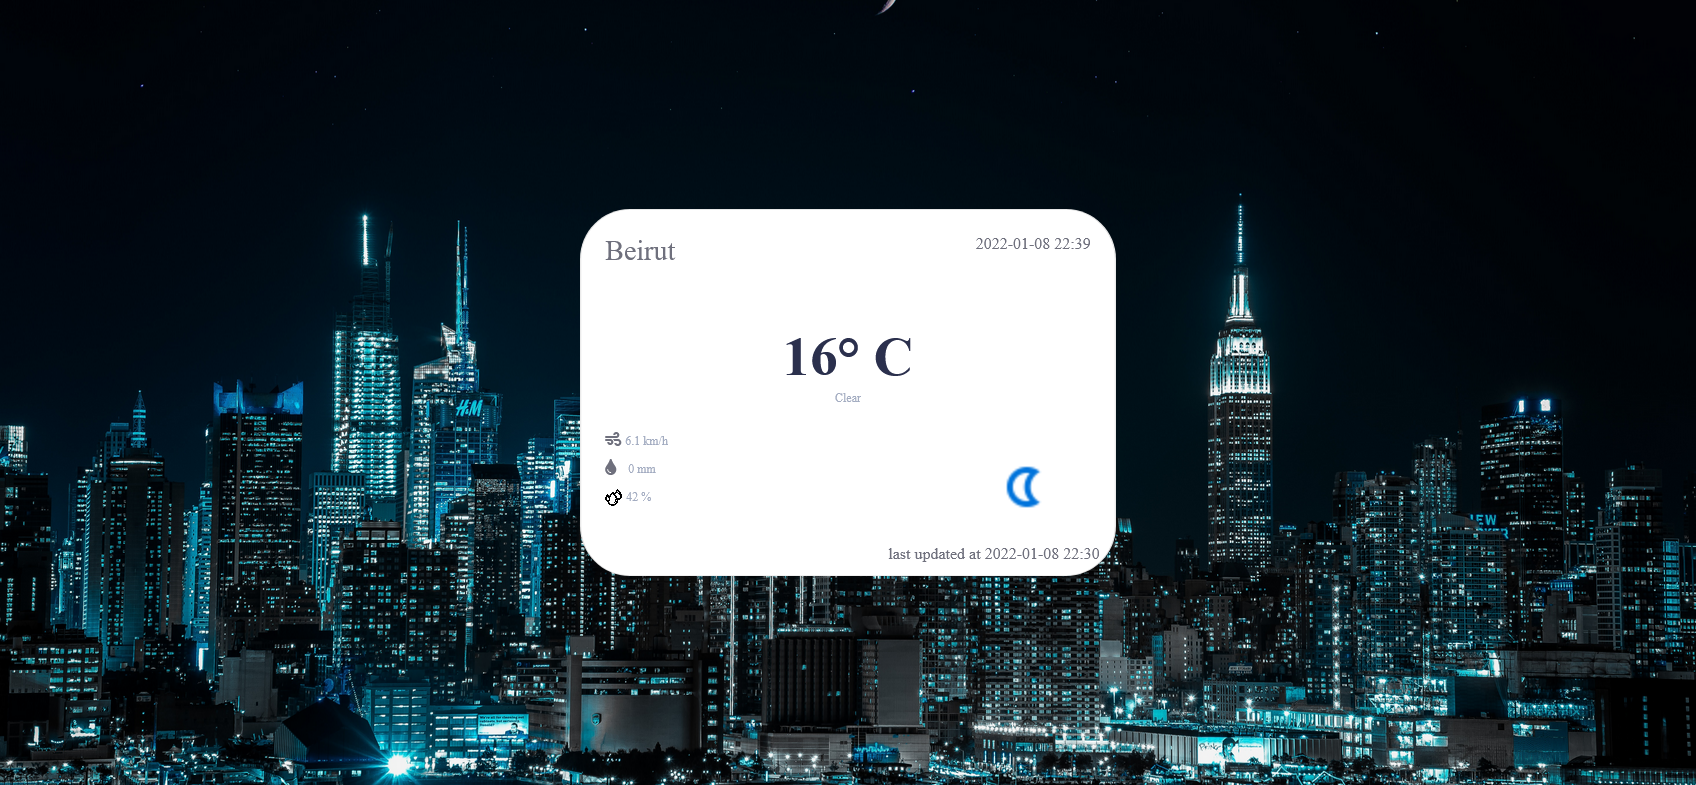
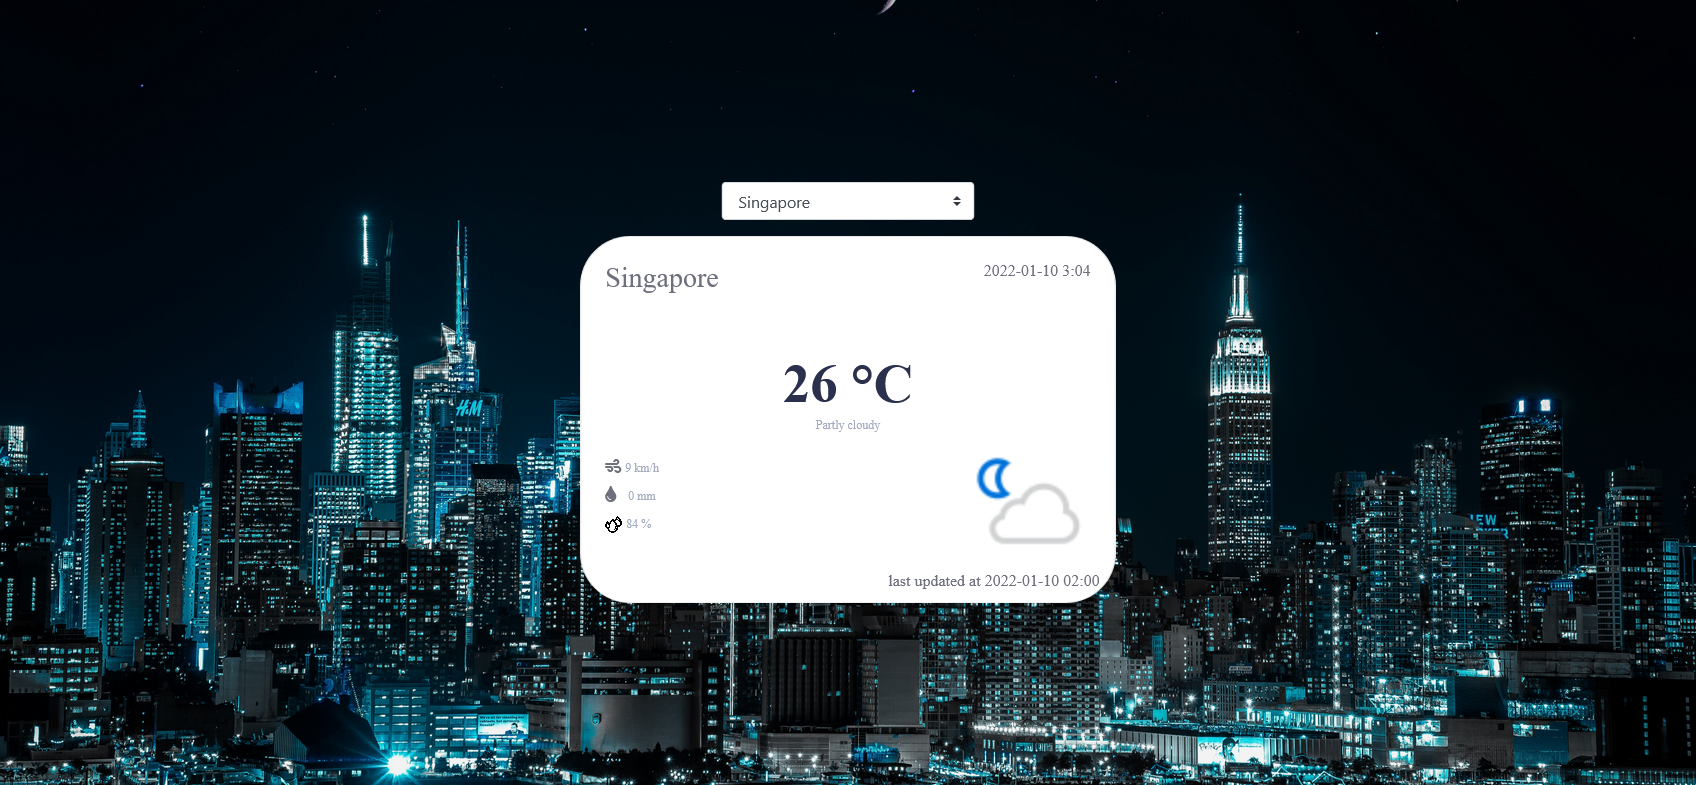
update

diff --git a/index.html b/index.html
@@ -626,10 +626,11 @@
                     <img src="assets/modal6/image1.png" class="img-fluid mx-auto"  style="height: 25vh;" alt="">
                   </div>
                   <div class="col-lg-6">
-                    <img src="assets/modal6/image2.png" class="img-fluid mx-auto"  style="height: 25vh;" alt="">
+                    <img src="assets/modal6/image2.webp" class="img-fluid mx-auto"  style="height: 25vh;" alt="">
                   </div>
                 </div>
-                <p>The aim of this application is to fetch weather of cities using api. 
+                <p>The aim of this application is to fetch weather of cities using api
+                  while the user select city from the combobox filled from API 
                   <br> The implantation of the system was done using Laravel. </p>
                 <ul class="list-inline">
                   <li>Date: January 2022</li>
